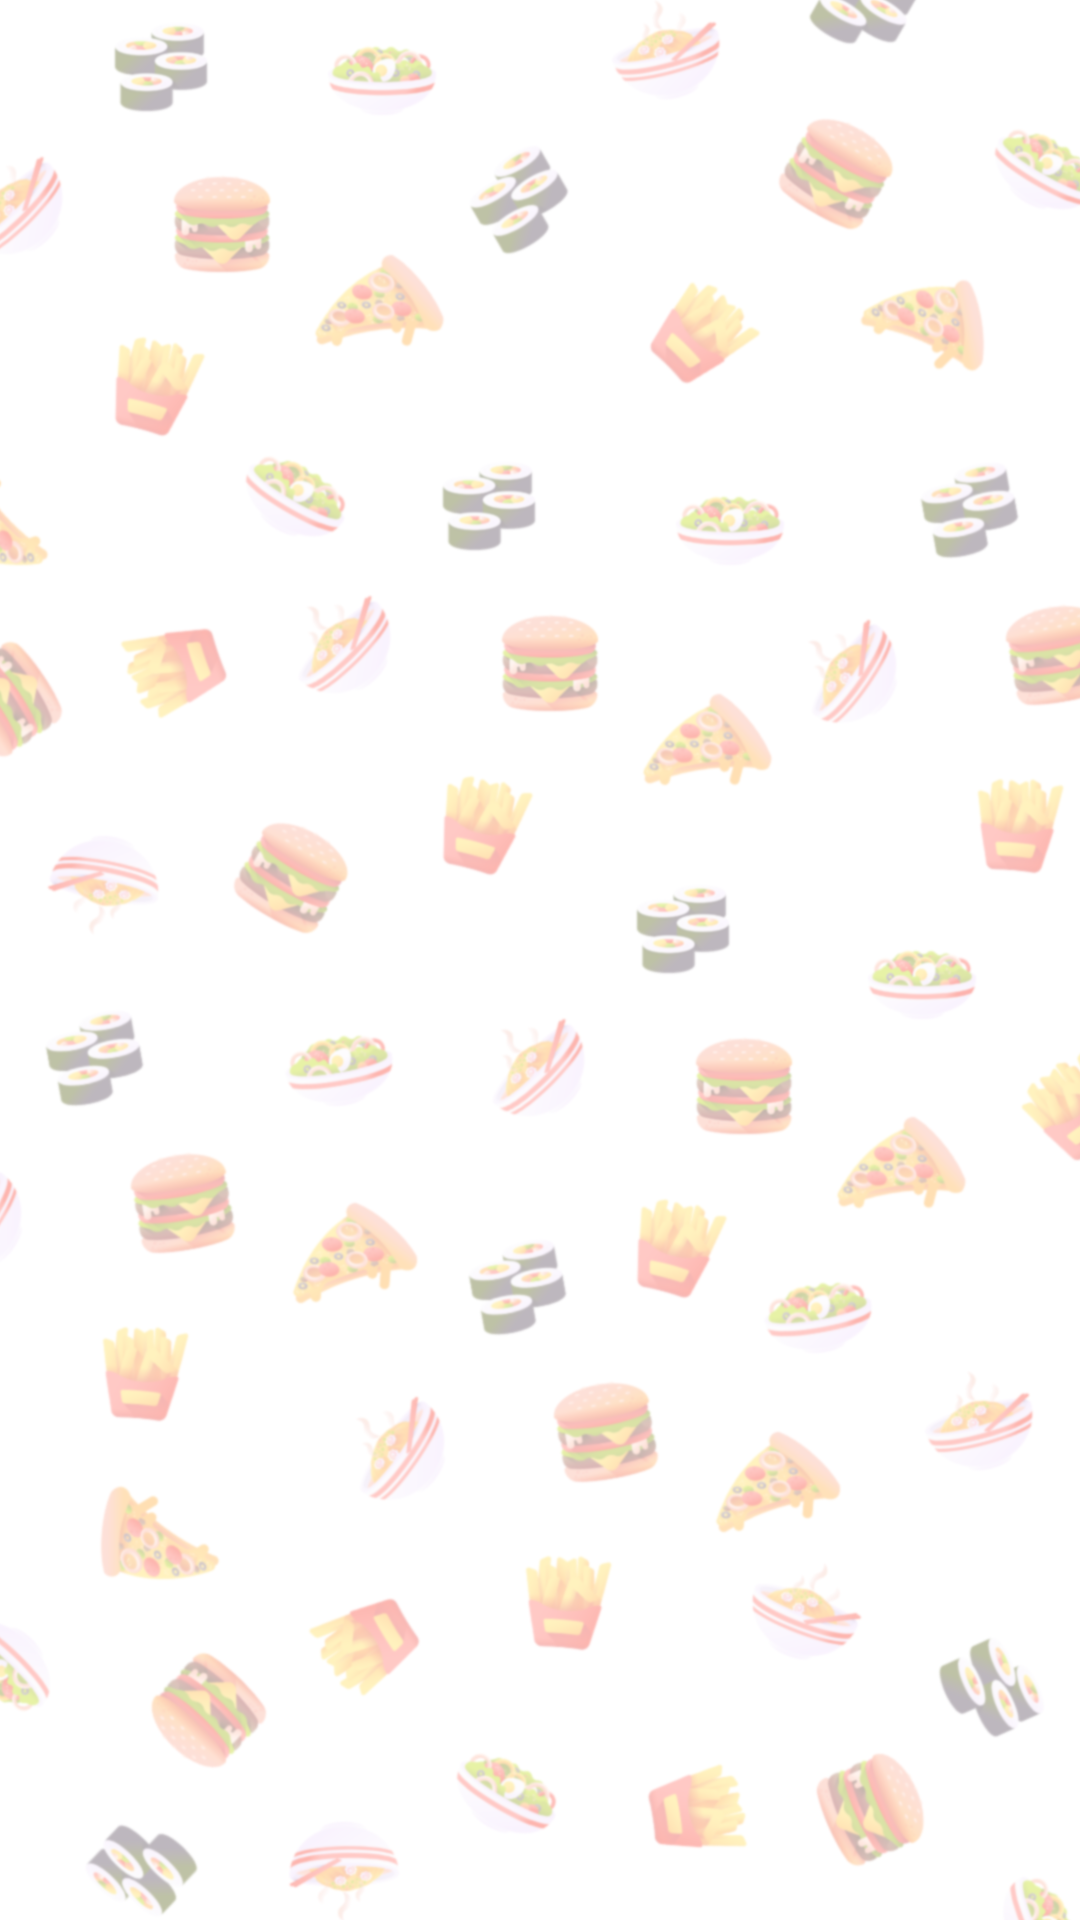
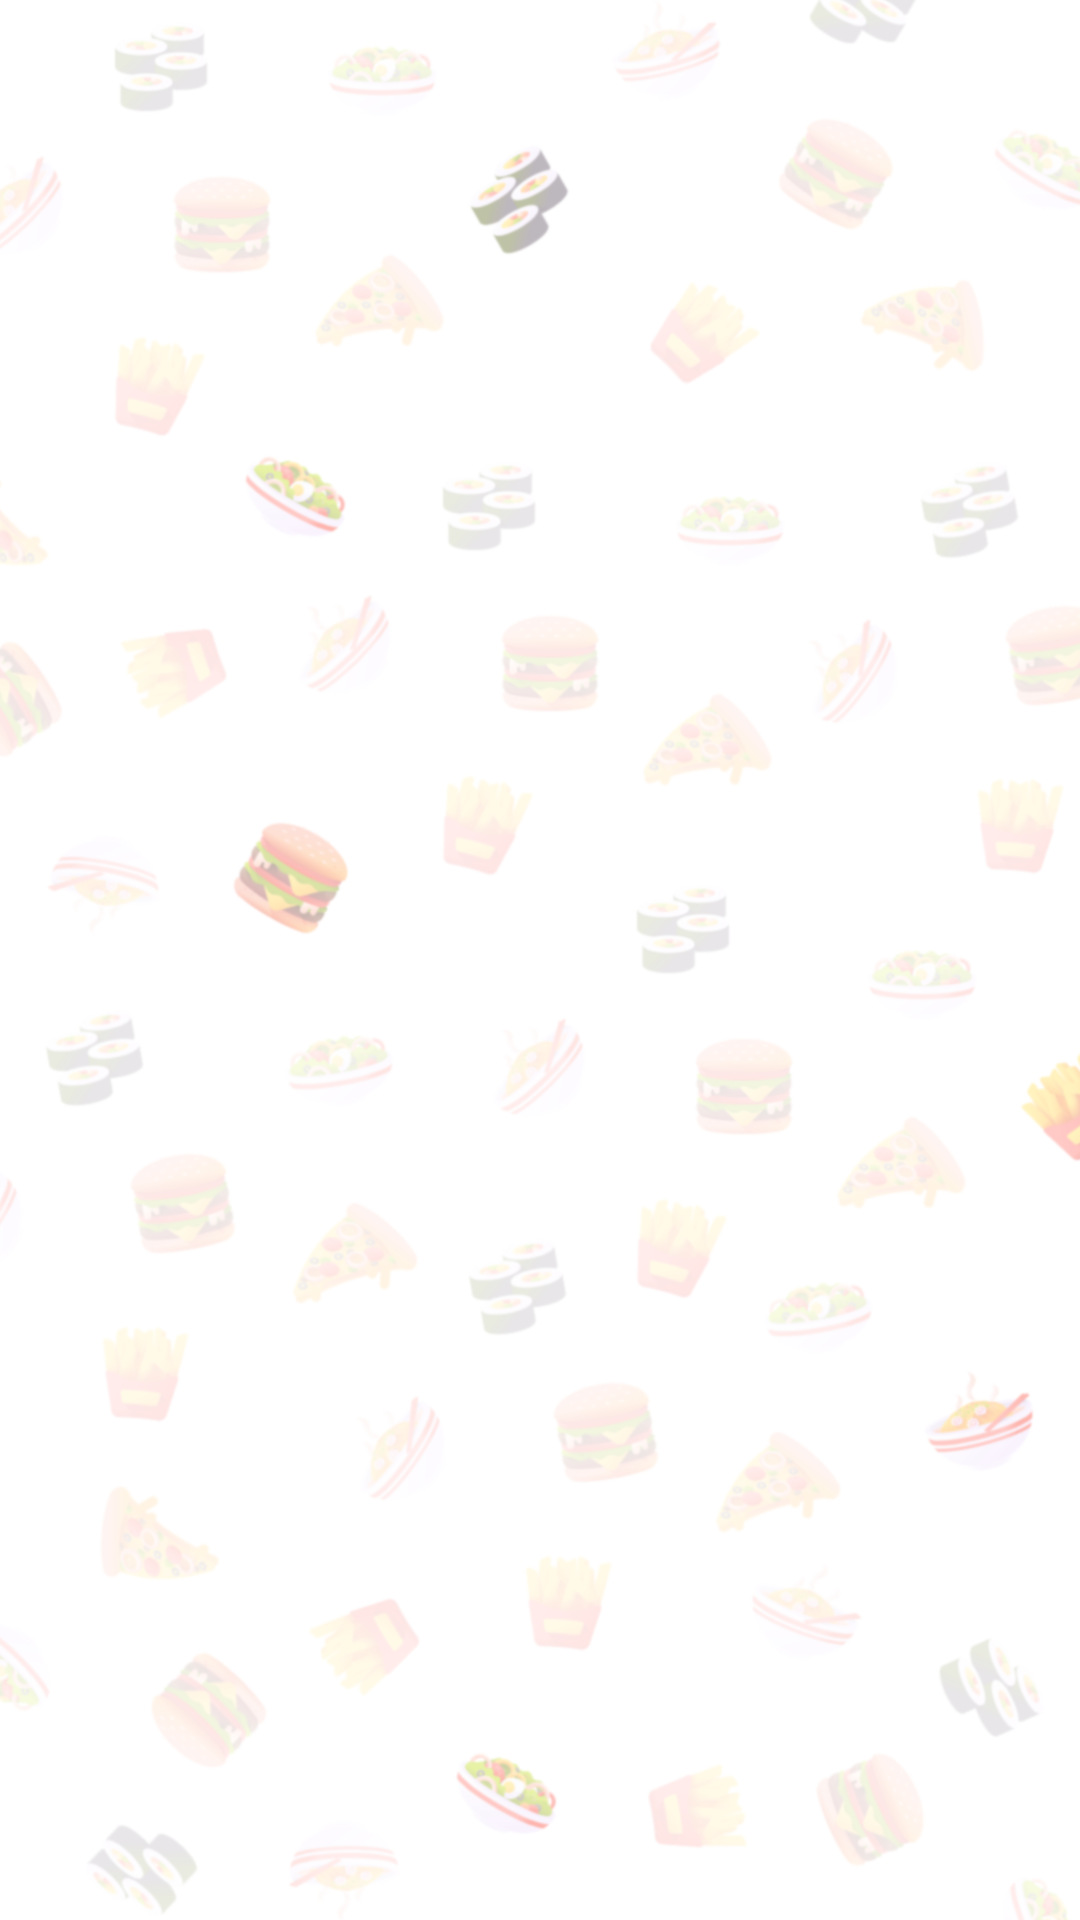
transparent

diff --git a/what_eat/lib/Home.dart b/what_eat/lib/Home.dart
@@ -34,6 +34,7 @@ class _HomeState extends State<Home> {
       ),
       body: Container(
         decoration: BoxDecoration(
+          color: Colors.white,
           image: DecorationImage(
             image: AssetImage("assets/background.png"),
             fit: BoxFit.cover
@@ -98,7 +99,22 @@ class _HomeState extends State<Home> {
                 ),),
               ),
             ),
-            Container()
+            Container(
+              width: MediaQuery.of(context).size.width,
+              child: Padding(
+                padding: const EdgeInsets.only(right: 20.0),
+                child: Stack(
+                  alignment: Alignment.bottomRight,
+                  children: <Widget>[
+
+                    FloatingActionButton(
+                      backgroundColor: Theme.of(context).primaryColor,
+                    ),
+                    Image.asset("assets/light.png", width: 45, height: 45,),
+                  ],
+                ),
+              ),
+            )
           ],
         ),
       ),

diff --git a/what_eat/lib/main.dart b/what_eat/lib/main.dart
@@ -26,7 +26,8 @@ class MyApp extends StatelessWidget {
       title: "What's Dinner?",
       theme: ThemeData(
         primarySwatch: Colors.orange,
-        primaryColor: Colors.orange[300]
+        primaryColor: Colors.orange[300],
+
         // This makes the visual density adapt to the platform that you run
         // the app on. For desktop platforms, the controls will be smaller and
         // closer together (more dense) than on mobile platforms.

diff --git a/what_eat/lib/Values/themes.dart b/what_eat/lib/Values/themes.dart
@@ -1,0 +1,9 @@
+import 'package:flutter/material.dart';
+
+final darkTheme = ThemeData(
+  backgroundColor: const Color(0xFF0d1a26)
+);
+
+final lightTheme = ThemeData(
+  backgroundColor: Colors.white
+);
